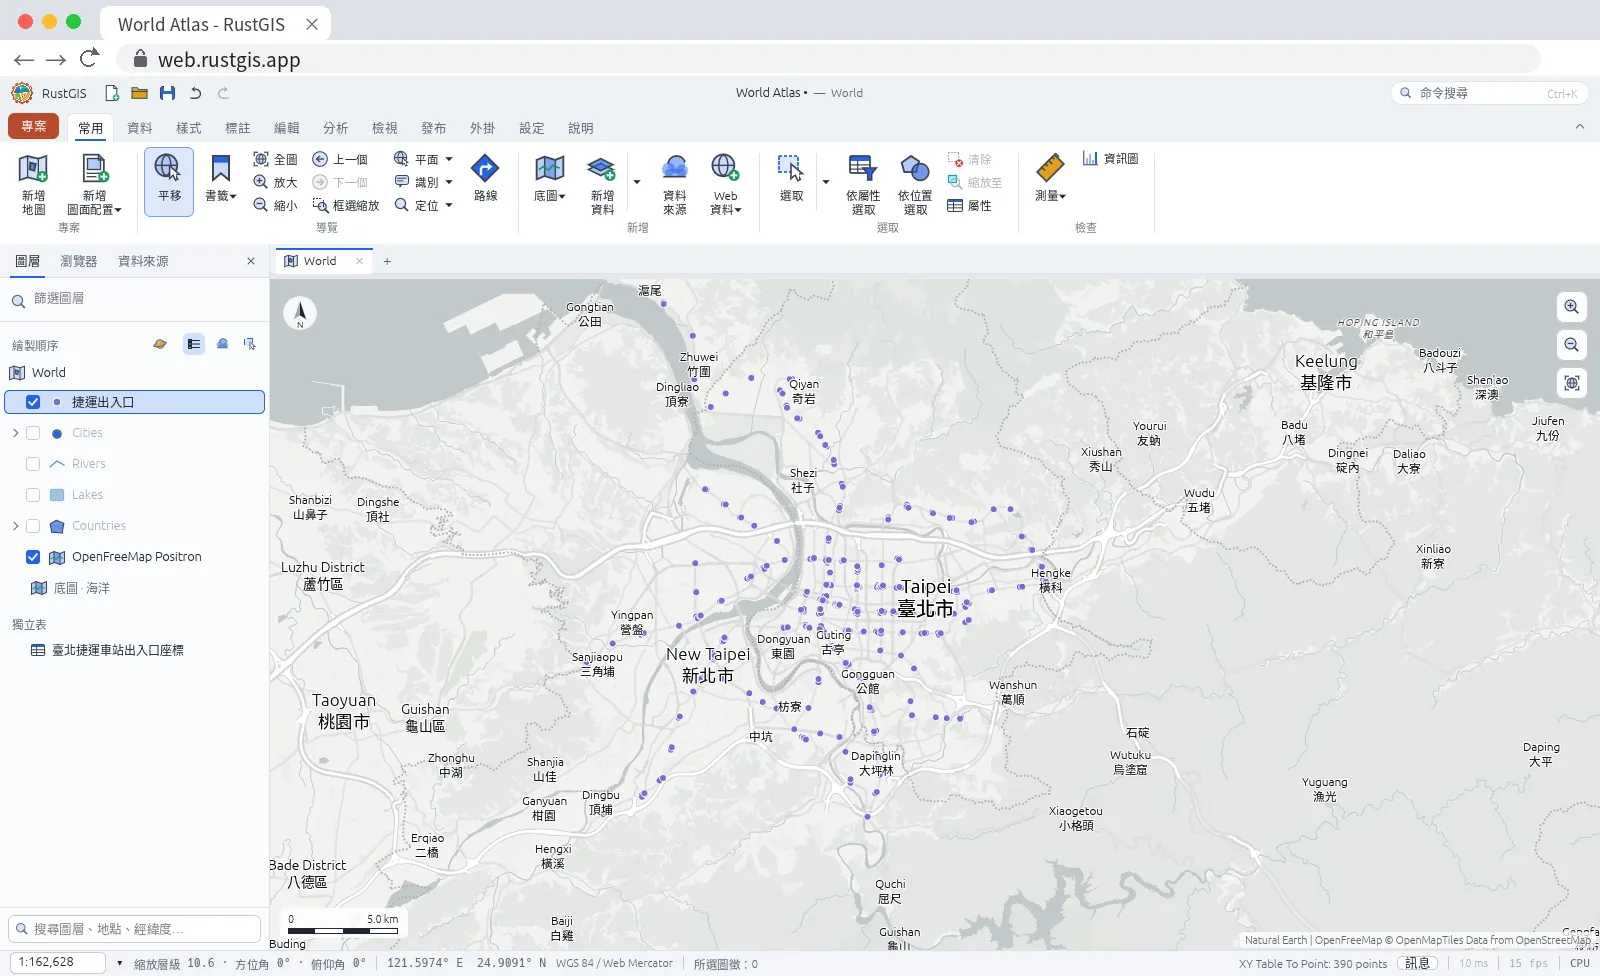
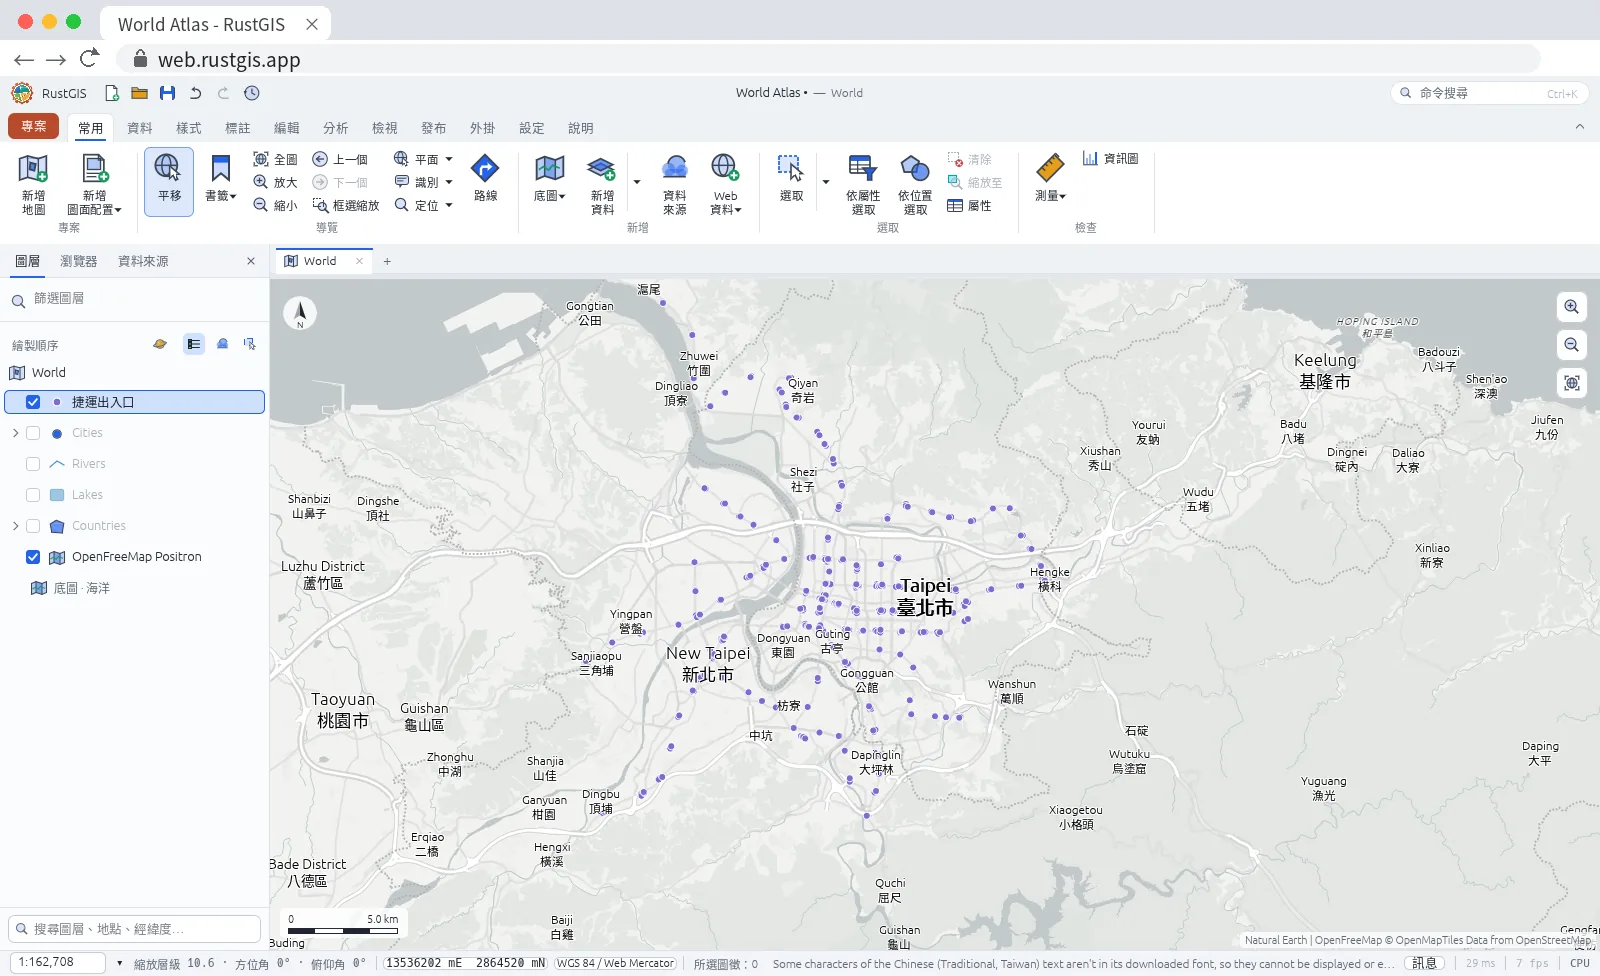
依最新網頁版更新第 2、7、8、12 課
- 第 8 課：有「經度、緯度」欄位的 CSV 現在直接變成點圖層，XY 表轉點改為補充說明，更新截圖
- 第 2、7 課：TGOS 的 ZIP 附帶的 Excel 修正清單會開成名稱亂碼的獨立表，說明由來與處理方式；更新略過檔案的訊息文字
- 第 2 課：坐標系統說明改為「保留原坐標系統，繪製時重新投影」
- 第 12 課：配合第 8 課修改說明

diff --git a/docs/tutorials/08-points.md b/docs/tutorials/08-points.md
@@ -43,24 +43,16 @@
 ## 把表格變成點
 
 1. 打開 [web.rustgis.app](https://web.rustgis.app)，把轉好的 CSV 拖進地圖（或用 **常用 › 新增資料**）。
-2. 圖層面板最下方的「**獨立表**」多了一個「臺北捷運車站出入口座標」。它還只是一張表，地圖上什麼都沒有。
-3. 在這張表上按右鍵，選 **XY 表轉點…**。
+2. 圖層面板最上方多了一個「**臺北捷運車站出入口座標**」點圖層，地圖上也出現了點。RustGIS 認得 `經度`、`緯度` 這兩個欄位名稱，自動把每一列變成一個點。
 
-    ![獨立表的右鍵選單：屬性表、XY 表轉點…、移除](../images/08-table-menu.webp){ width="300" }
+    ![CSV 直接變成點圖層「臺北捷運車站出入口座標」](../images/08-csv-points.webp)
 
-4. 右側會打開「XY 表轉點」工具，依下表填寫：
+3. 名稱有點長，改短一點：在這個圖層上按右鍵，選 **重新命名…**，輸入 `捷運出入口`，按 **重新命名**。
 
-    | 欄位 | 填寫 | 說明 |
-    |---|---|---|
-    | 輸入資料表 | 臺北捷運車站出入口座標 | 已經自動選好 |
-    | X 欄位 | **經度** | X 是東西方向，對應經度 |
-    | Y 欄位 | **緯度** | Y 是南北方向，對應緯度 |
-    | 坐標系統 | `EPSG:4326` | 預設值，表示 WGS 84 經緯度，不用改 |
-    | 輸出名稱 | `捷運出入口` | 自己取 |
+!!! tip "欄位名稱 RustGIS 不認得時"
+    RustGIS 認得的經緯度欄位名稱有 `經度`／`緯度`、`longitude`／`latitude`、`lon`／`lat` 等。如果 CSV 的欄位叫別的名字（例如 `X坐標`、`Y坐標`），拖進來後會放在圖層面板最下方的「**獨立表**」，地圖上看不到點。
 
-    ![XY 表轉點：X 欄位是經度、Y 欄位是緯度，執行結果 390 points](../images/08-xy-tool.webp){ width="320" }
-
-5. 按 **執行**。結果寫著「**XY Table To Point: 390 points**」，圖層面板多了一個 `捷運出入口` 點圖層。
+    這時在獨立表上按右鍵，選 **XY 表轉點…**，**X 欄位** 選經度、**Y 欄位** 選緯度，按 **執行**，就會變成點圖層。
 
 !!! warning "X 是經度，Y 是緯度"
     很多人會直覺地把「緯度」放在前面，但 GIS 的 X 是**東西**方向，也就是**經度**；Y 是南北方向，也就是緯度。放反的話，點會跑到印度洋去。
@@ -130,7 +122,7 @@
 
 ## 小結
 
-- 有經緯度欄位的 CSV，用獨立表右鍵的 **XY 表轉點** 就能變成點圖層。**X 是經度、Y 是緯度**。
+- 欄位叫 `經度`／`緯度`（或 `longitude`／`latitude`）的 CSV，拖進 RustGIS 就直接變成點圖層；欄位名稱認不得時，用獨立表右鍵的 **XY 表轉點**。**X 是經度、Y 是緯度**。
 - RustGIS 只讀 **UTF-8** 的 CSV；出現「不是文字檔」或亂碼時，先轉換編碼。
 - **範圍內彙總** 會統計每個多邊形裡有幾個點，結果在 `point_count` 欄位。
 - 統計結果可以直接用分級設色畫成地圖。

diff --git a/docs/tutorials/07-choropleth.md b/docs/tutorials/07-choropleth.md
@@ -37,6 +37,7 @@
 - **TOWN_MOI_1140318**：鄉鎮市區界線，這一課的主角。
 - **Town_Majia_Sanhe**：ZIP 檔裡附的一小塊屏東縣瑪家鄉範圍，這一課用不到，取消勾選或按右鍵移除。
 - 最下方的「**獨立表**」底下多了 **opendata114N010**：這就是人口 CSV。它只有表格、沒有位置，所以不會畫在地圖上。
+- 「獨立表」底下還有一張名稱是亂碼的表（例如 `30411_��M��Y�`），這是 ZIP 檔裡附的 Excel 修正清單，用不到，可以按右鍵移除（原因見[第 2 課](02-load-boundaries.md)）。用本站備份的 ZIP 檔不會有這張表。
 
 名稱裡的 `1140318`、`114` 是資料的版本日期和年度。之後下載到更新的版本，名稱和數字會不一樣，照著實際的名稱操作就好。
 
@@ -81,7 +82,7 @@
     |---|---|---|
     | 目標表/圖層 | `TOWN_MOI_1140318` | 要接上資料的圖層 |
     | 目標鍵欄位 | `SITE_ID` | 剛才做的欄位（在清單最下面） |
-    | 來源資料表 / 圖層 | `opendata114N010` | 人口 CSV |
+    | 來源資料表 / 圖層 | `opendata114N010` | 人口 CSV。選單裡如果還有名稱是亂碼的表，不要選到它 |
     | 來源鍵欄位 | `site_id` | 人口表裡對應的欄位，要自己輸入 |
 
     其他欄位不用填。

diff --git a/docs/tutorials/12-time-slider.md b/docs/tutorials/12-time-slider.md
@@ -33,7 +33,7 @@
 
 ![789 個地震的位置](../images/12-points.webp)
 
-這次 CSV 直接變成點圖層，不用像[第 8 課](08-points.md)那樣做「XY 表轉點」。因為欄位名稱是英文的 `latitude` 和 `longitude`，RustGIS 認得出這兩欄是緯度和經度。
+和[第 8 課](08-points.md)一樣，CSV 直接變成點圖層：欄位名稱 `latitude`、`longitude` 是 RustGIS 認得的緯度、經度欄位名稱。
 
 一眼就看得出來：地震大多集中在**臺灣東部和東部外海**。789 筆裡，有 707 筆（約 9 成）在東經 121 度以東。
 
